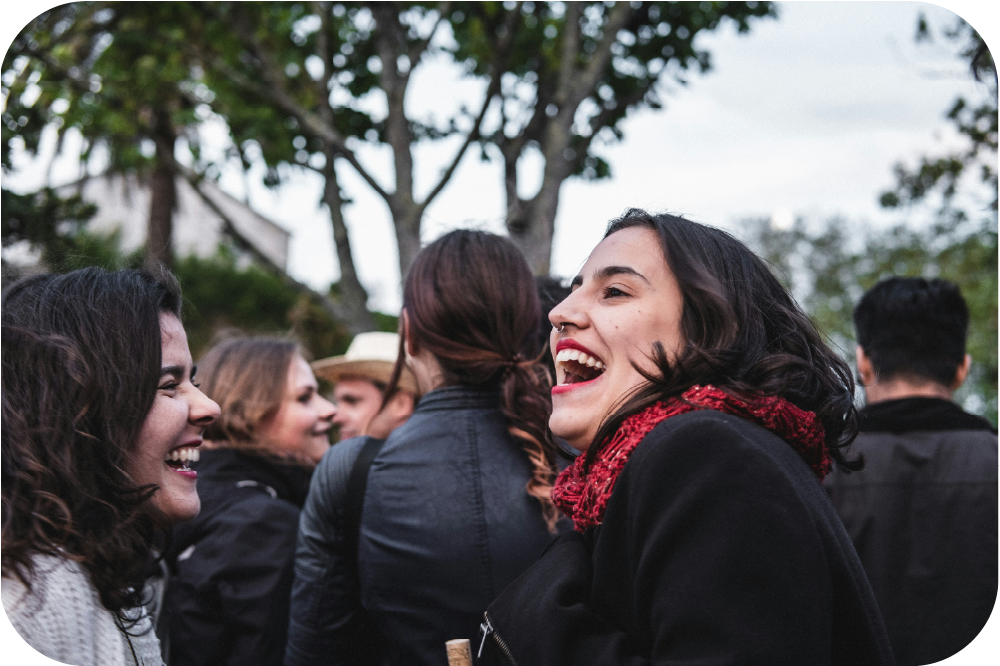
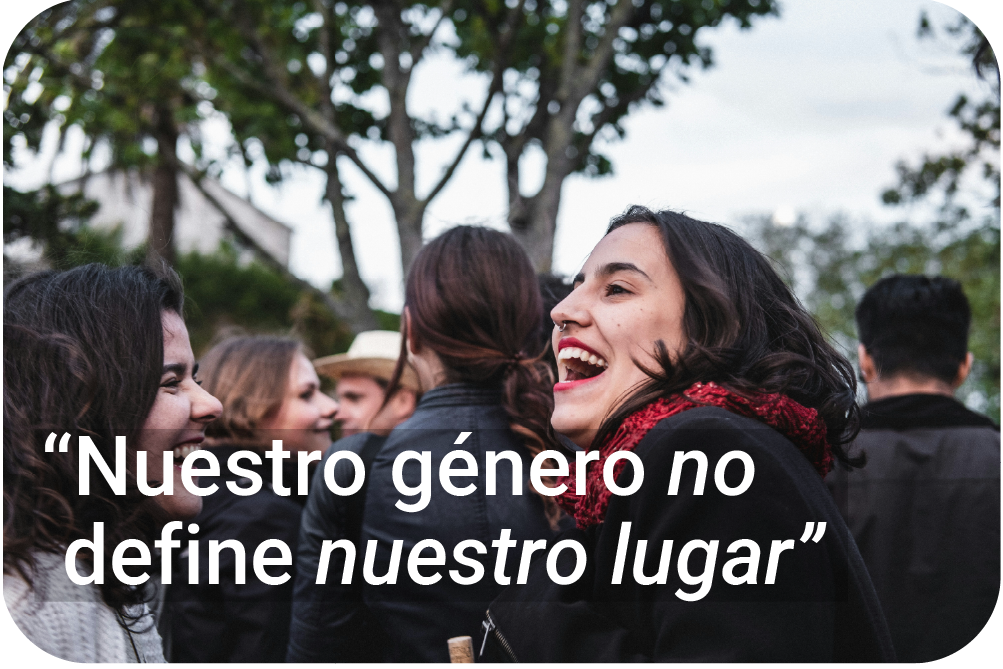
cambios

diff --git a/estilos.css b/estilos.css
@@ -120,54 +120,55 @@ main {
     );
 
     color: white;
-    margin-top: 40px;
-    padding: 40px 20px 30px;
 
-    border-top-left-radius: 40px;
-    border-top-right-radius: 40px;
+    width: 80%;
+    margin: 60px auto;   /* centra la tarjeta */
+
+    padding: 40px 20px;
+
+    border-radius: 30px;
 
     text-align: center;
 }
 
-/* logo */
+/* LOGO */
 .footer img {
-    width: 120px;
-    margin-bottom: 15px;
+    width: 90px;
+    margin-bottom: 20px;
 }
 
-/* título */
+/* TITULO */
 .footer h3 {
-    font-size: 12px;
+    font-size: 11px;
     letter-spacing: 1px;
-    margin-bottom: 10px;
     color: #00ffff;
+    margin-bottom: 10px;
 }
 
-/* texto */
+/* TEXTO */
 .footer p {
-    font-size: 13px;
-    margin: 5px 0;
-    opacity: 0.9;
+    font-size: 12px;
+    margin: 4px 0;
 }
 
-/* redes (una sola imagen) */
+/* REDES (una sola imagen) */
 .redes {
     margin: 20px 0;
 }
 
 .redes img {
-    width: 140px; /* ajustalo a ojo */
+    width: 120px;
 }
 
-/* efecto hover */
+/* HOVER */
 .redes a:hover img {
     transform: scale(1.1);
 }
 
-/* links legales */
+/* LINKS LEGALES */
 .links {
     margin-top: 15px;
-    font-size: 11px;
+    font-size: 10px;
     opacity: 0.8;
 }
 

diff --git a/index.html b/index.html
@@ -73,7 +73,7 @@
 
     <div class="redes">
         <a href="#">
-            <img src="imagenes/redes.png" alt="Redes sociales">
+            <img src="imagenes/redes-01.png" alt="Redes sociales">
         </a>
     </div>
 
